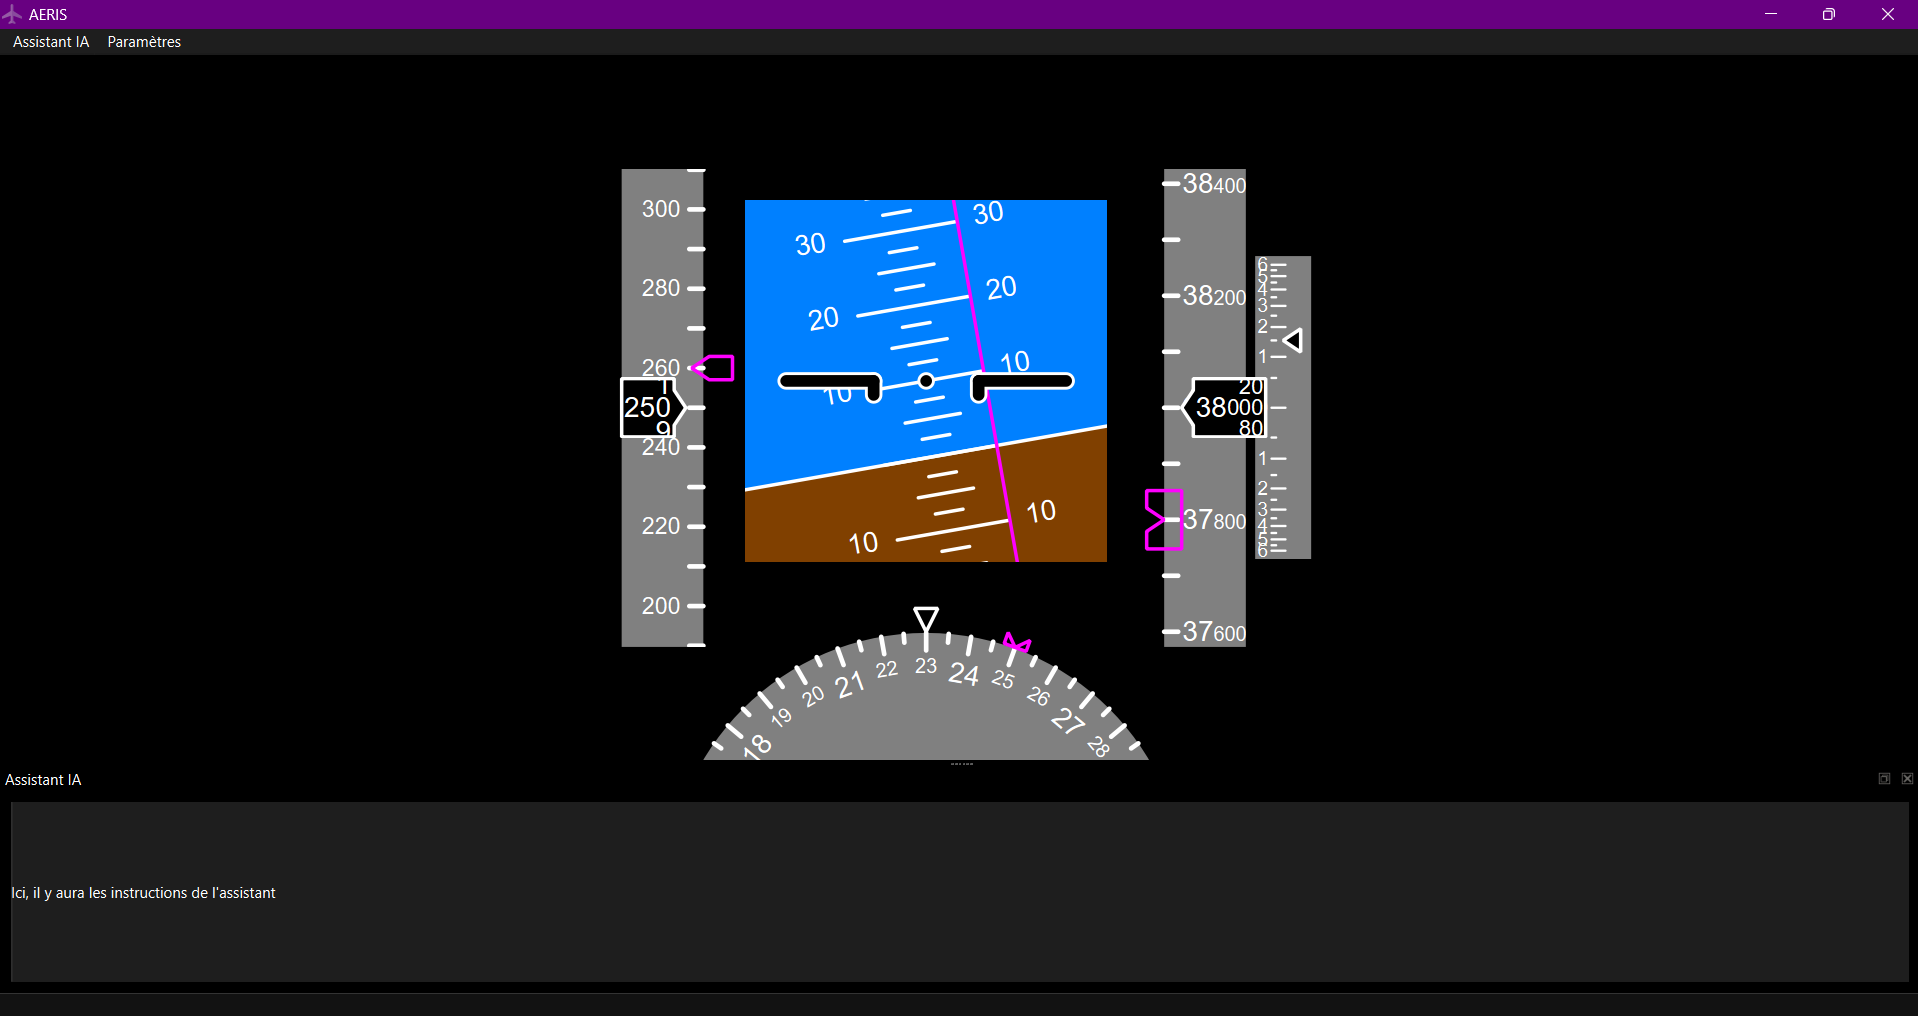
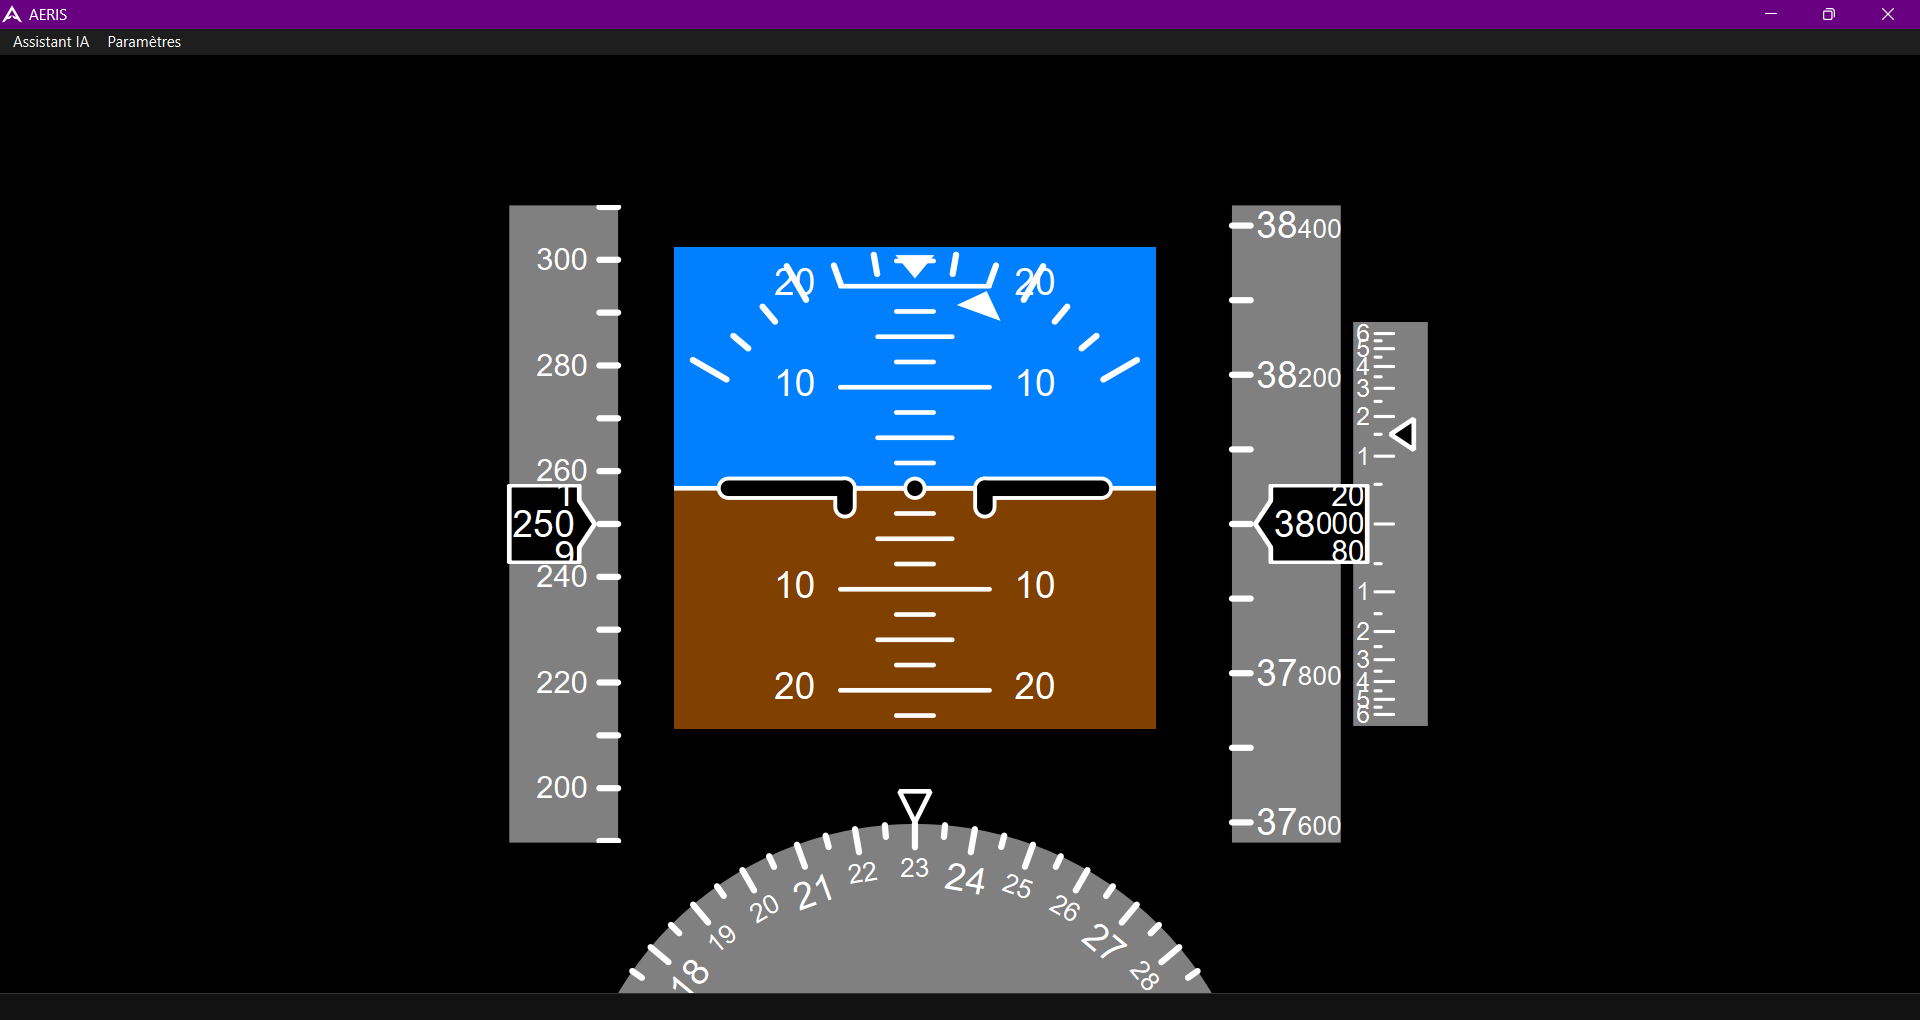
MAJ Etat actuel

diff --git a/software/ui/pfd.py b/software/ui/pfd.py
@@ -33,7 +33,7 @@ class PrimaryFlightDisplay(QWidget):
         self.view.setCacheMode(QGraphicsView.CacheModeFlag.CacheBackground)
         self.view.setOptimizationFlag(QGraphicsView.OptimizationFlag.DontSavePainterState)
 
-        self.setupMockPFD(size) #Provisoire
+        #self.setupMockPFD(size) #Provisoire
         self.setupInstruments()
 
         self.updateFromData()
@@ -96,7 +96,7 @@ class PrimaryFlightDisplay(QWidget):
 
         x, y = data
 
-        instrument = 6
+        instrument = 0
 
         pitch, roll, cap, speed, altitude, rise, slip = 0, 0, 230, 250, 38000, 1.5, 20
 
@@ -127,7 +127,7 @@ class PrimaryFlightDisplay(QWidget):
             self.variometer.updatePositions(rise)
 
         if instrument == 6:
-            self.slipIndicator.updatePositions(y/6)
+            self.slipIndicator.updatePositions(x/6)
         else:
             self.slipIndicator.updatePositions(slip)
 
